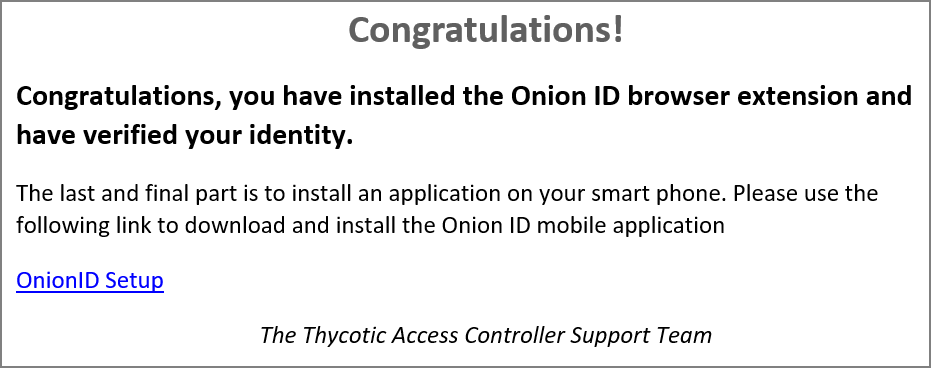
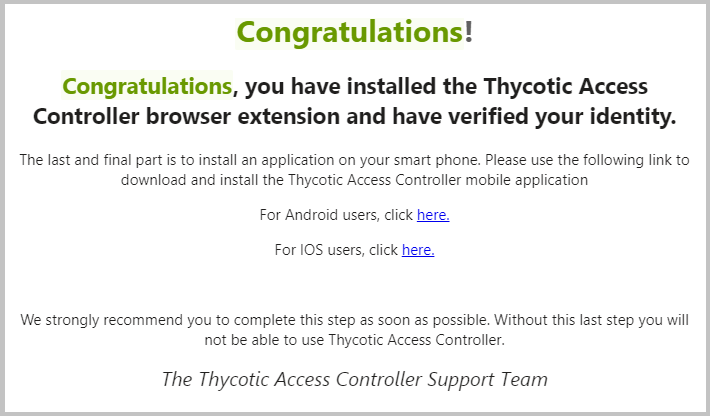
added links to browser extension and mobile app stores. fixed browser extension walk-through and outdated mobile extension image.

Changed region(s): [[0.0, 0.0, 1.0, 1.0], [0.2169, 0.8668, 0.7746, 0.9565]]

diff --git a/getting-started/be.md b/getting-started/be.md
@@ -7,14 +7,17 @@ The Browser Extension for **Cloud Access Controller** enforces MFA and automatic
 
 ## Installing the Browser Extension
 
-Use the link from your _Thycotic Access Controller Initial Set Up_ email and visit your default browser's extension store to install the Thycotic Access Controller browser extension, shown here for Chrome:
+1. Use the link from your _Thycotic Access Controller Initial Set Up_ email or visit your default browser's extension store to install the Thycotic Access Controller browser extension. This guide uses the Chrome browser as an example installation.
+    
+    [Access Controller Extension for Chrome](https://chrome.google.com/webstore/detail/thycotic-access-controlle/iecelabbmmbhdepbemppjplnkenhoemo)
 
-![ac extension](images/be-icon.png "Browser Extension icon")
+    [Access Controller Extension for Firefox](https://addons.mozilla.org/mn/firefox/addon/thycoticaccesscontroller/)
+1.  Once the extension is installed, you will see the Thycotic Access Controller icon in your extension bar. If you cannot see the icon, you may have to restart your browser for the extension to finish installation.
 
-Once the extension is installed and you open the Access Controller login page, the registration banner is displayed on top of your login page.
+    ![ac extension](images/be-icon.png "Browser Extension icon")
 
-![extension registration](images/be-reg.png "Browser Extension registration reminder")
-
+1. Open the [Thycotic Access Controller login page](https://thycoticaccesscontroller.com/login). The registration banner is displayed on top of your login page.
+    ![extension registration](images/be-reg.png "Browser Extension registration reminder")
 1. Click the __here__ link in the message banner.
 1. The Registration modal opens, prompting you for the Registration Code that has been emailed to you.
 

diff --git a/getting-started/mobile.md b/getting-started/mobile.md
@@ -6,7 +6,10 @@
 
 The Mobile Application enforces **Multi Factor Authentication** for all of Thycotic's Access Controller products.
 
-After a successful [Browser Extension](be.md) installation and registration, follow the link in your registration email, to download the OnionID (Thycotic Access Controller) Application.
+After a successful [Browser Extension](be.md) installation and registration, follow the link in your registration email or go directly to the [iOS](https://apps.apple.com/us/app/onionid/id954836301) or [Android Store](https://play.google.com/store/apps/details?id=com.programize.onionid&hl=en_US&gl=US) to download theThycotic Access Controller Application.
+
+> **Note:** The iOS Access Controller Application is branded as **OnionID**.
+
 
 ![email 2](images/mobile-email.png "Email prompting to download the mobile app for device registration")
 
